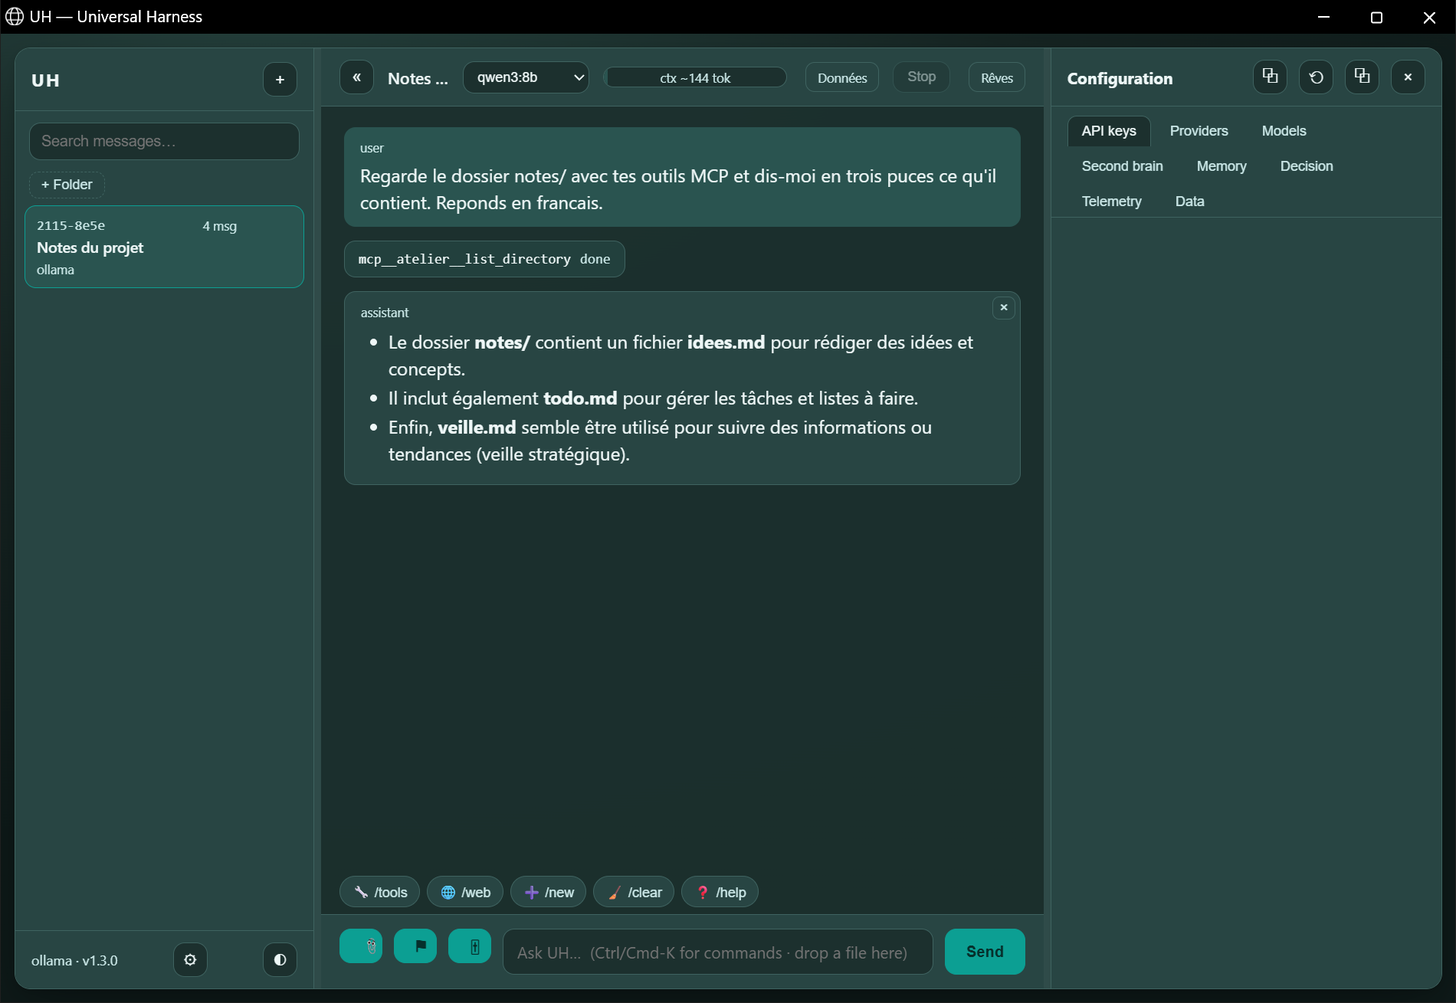
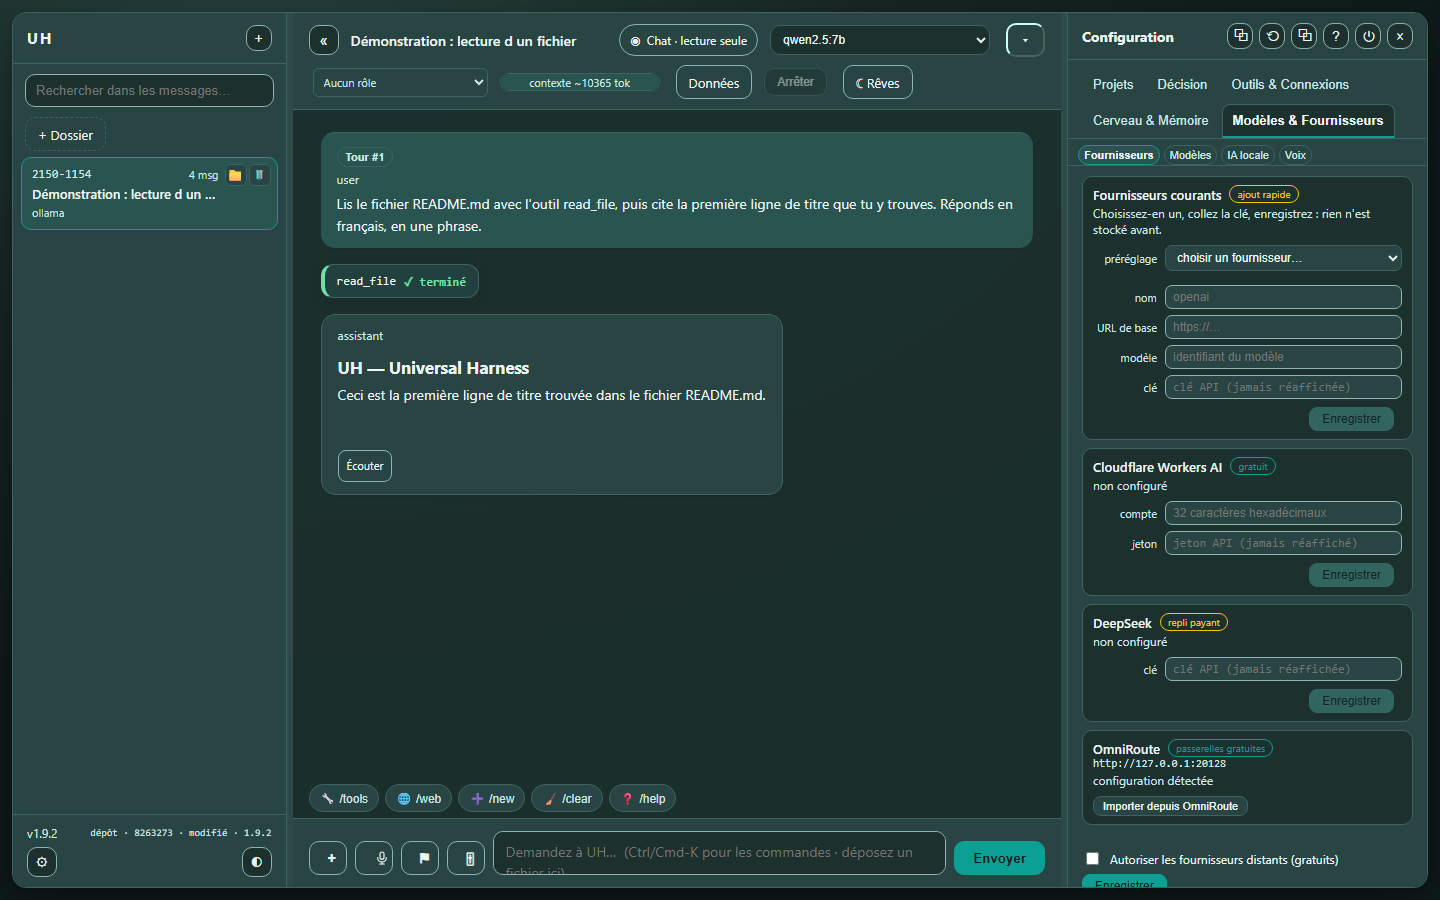
Docs/refresh cockpit screenshots (#88)
* docs(assets): les captures du cockpit viennent d'une instance réelle, pas d'une maquette

Le README promet des captures réelles ; cockpit.png montrait encore une version
antérieure de l'interface (avant « Écouter », avant les sous-onglets du panneau).

Refaites sur une instance réelle, en 1440x900, avec un `UH_HOME` de démonstration
jetable (aucune clé, aucun jeton, aucun chemin personnel) et le modèle local
`qwen2.5:7b` servi par l'Ollama de la machine :

- **cockpit.png** (1440x900) : une session, un vrai tour — la question, la carte
  `read_file` dépliée puis repliée avec son ✓, la réponse en français et son bouton
  « Écouter », la jauge de contexte (~10 365 tok), le sélecteur de modèle, le badge
  du second cerveau, et la colonne de configuration avec ses cinq groupes et ses
  sous-onglets (Fournisseurs, Modèles, IA locale, Voix).
- **connections.png** (1440x900) : sous-onglets Outils / MCP / UHB / Infra / Tâches /
  Extensions, gabarit « Stockage cloud » (AWS S3, secrets vides), puis la section
  « Serveurs MCP » et son bouton « + Connecter un MCP ».
- **model-switch.png** (1440x900) : le sélecteur de modèle et la liste locale.

Légendes du README corrigées pour décrire ce qui est réellement visible (la carte
d'outil est un outil fichier, pas un outil MCP ; le formulaire MCP n'apparaît pas,
c'est son bouton qui est montré). Aucun numéro de version touché.

Non refaite : `machine.png` — l'onglet Machine vit sur `feat/g19-machine-panel`,
[…]

Changed region(s): [[0.0, 0.0, 1.0, 0.9022], [0.0, 0.8711, 0.9375, 0.9956]]

diff --git a/README.md b/README.md
@@ -10,7 +10,7 @@ window, tool use, a **Model Context Protocol client**, a night pass that reads
 your notes *and* your tooling, persisted sessions — and **one** runtime
 dependency (`httpx`). Local-first: no account, no API key on first launch.
 
-![The UH cockpit: a message, the MCP tool card that answered it, the reply, and the configuration column](https://raw.githubusercontent.com/Antoine-Thomas/UH-Universal-Harness/main/docs/assets/cockpit.png)
+![The UH cockpit at 1440x900: sessions on the left, a real turn in the middle (the question, the read_file tool card that answered it, the French reply with its « Écouter » button), the context gauge and the model selector on top, and the configuration column with every tab on the right](https://raw.githubusercontent.com/Antoine-Thomas/UH-Universal-Harness/main/docs/assets/cockpit.png)
 
 *A real turn, not a mock-up: `qwen3:8b` on the machine that built this, asked to
 look at a notes folder, called `mcp__atelier__list_directory` through a
@@ -151,7 +151,7 @@ lives - is drawn in [docs/ARCHITECTURE.md](docs/ARCHITECTURE.md).
   result sizes, and every failure returned as a tool result instead of a crashed
   turn ([docs/MCP.md](https://github.com/Antoine-Thomas/UH-Universal-Harness/blob/main/docs/MCP.md)).
   The Data panel shows one row per server and a test button that asks it *now*.
-![The Connexions tab: a Cloud template on top, a custom MCP server form below](https://raw.githubusercontent.com/Antoine-Thomas/UH-Universal-Harness/main/docs/assets/connections.png)
+![The Connexions tab: sub-tabs (Outils, MCP, UHB, Infra, Tâches, Extensions), the Cloud storage template (AWS S3, empty secrets) on top, and the MCP servers section with its « + Connecter un MCP » button below](https://raw.githubusercontent.com/Antoine-Thomas/UH-Universal-Harness/main/docs/assets/connections.png)
 
 - **Cloud connections in two clicks** (no TOML). The Data panel offers "Connecter
   un Cloud": pick **AWS S3** or **Google Drive**, fill the labelled fields, press
@@ -529,6 +529,16 @@ use `%USERPROFILE%`.
   place (the memory toolset still reads and writes it).
 
 ## Recommended local models (measured, not quoted)
+
+![The Machine panel: the measured profile (RTX 3070 Ti, 5.6 GB of VRAM free out of 8), the recommended model with its download button, and the inkling-2-mini alternative with its « à vérifier » badge, its warning and an unticked consent box](https://raw.githubusercontent.com/Antoine-Thomas/UH-Universal-Harness/main/docs/assets/machine.png)
+
+UH does not guess what your machine can run: the **Machine** panel asks UHB for the
+measured profile, then shows the largest catalogue entry that fits with a 0.8 GB
+margin. On the capture above only 5.6 GB of VRAM were free, so `lfm3` (2.1 GB) is
+recommended rather than `qwen2.5:7b` (6.5 GB with the margin) — and
+`inkling-2-mini:26b-a5b-iq4_NL` is offered as an alternative with its warning, its
+« à vérifier » badge and a consent box that starts unticked. Nothing downloads
+without a click on a button that names the size.
 
 UH has no preferred model, but two are worth knowing for a 8 GB GPU:
 
